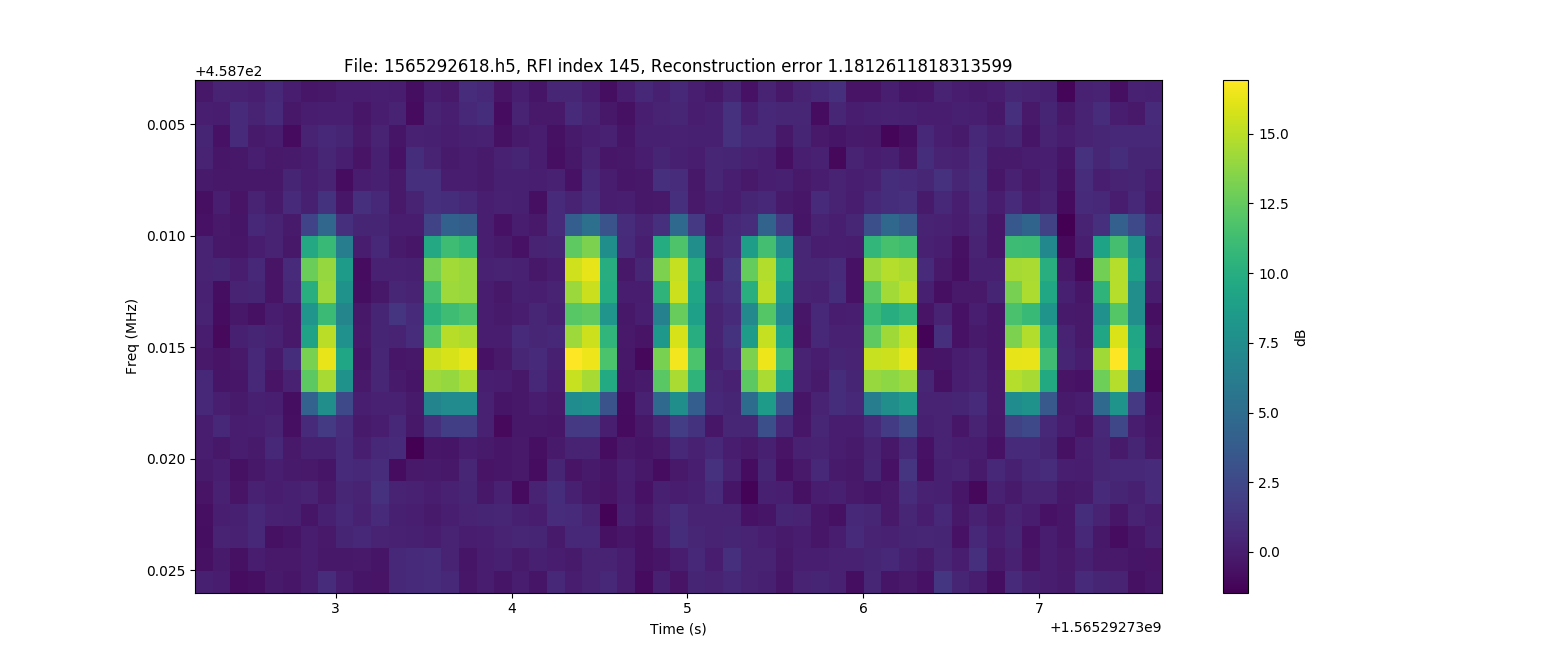
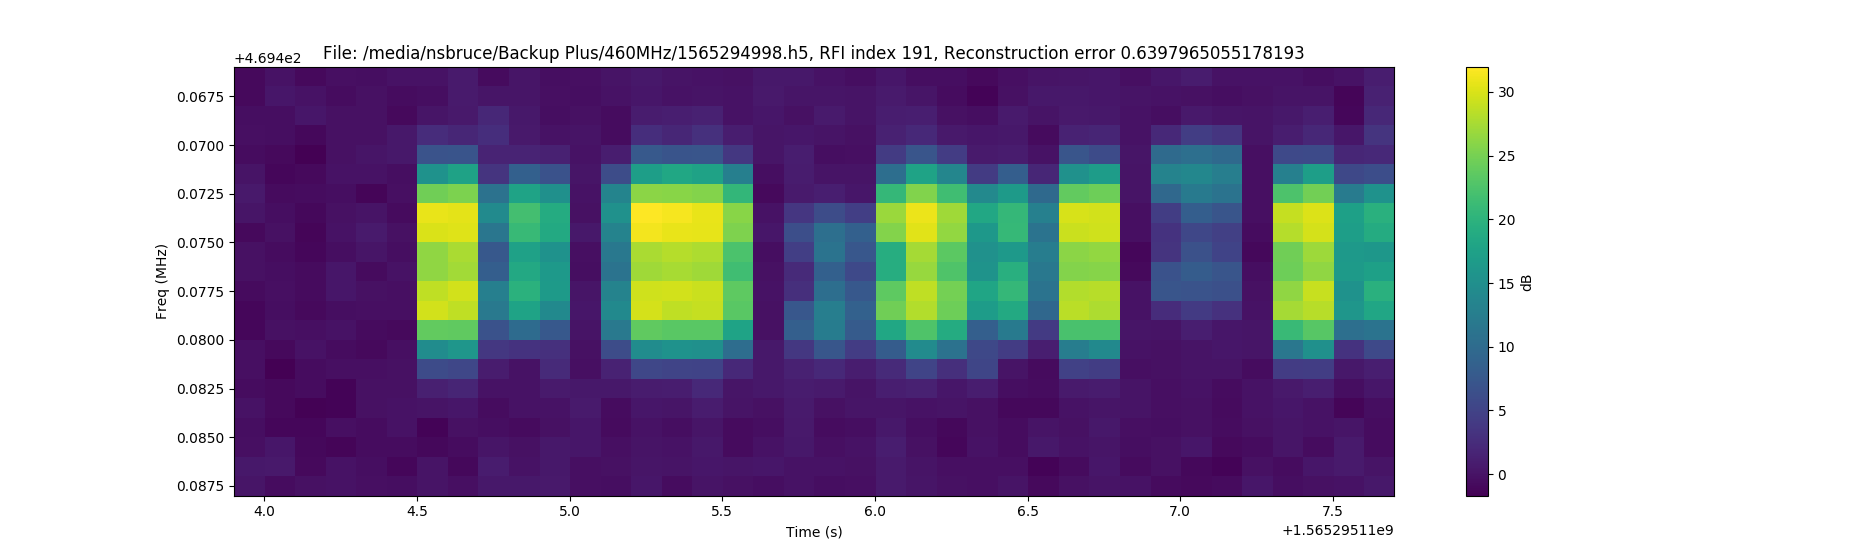
Added system to find average RME for a signal

diff --git a/code/plot_baseband_RFI.py b/code/plot_baseband_RFI.py
@@ -5,73 +5,70 @@ Takes a baseband file or full h5 file and detection index and plots the passband
 import numpy as np
 import math
 import h5py
-import argparse
 import os
 import matplotlib.pyplot as plt
 
-parser = argparse.ArgumentParser(
-    description='Plots passband waterfall from baseband reference', 
-    formatter_class=argparse.ArgumentDefaultsHelpFormatter
-    )
-parser.add_argument('--bb-file', type=str,
-                    help=".c64 baseband file to plot")
-parser.add_argument('--h5', type=str,
-                    help="h5 file containing the full experiment")
-parser.add_argument('--index', type=str,
-                    help="merged_detection index to plot")
-parser.add_argument("--error", type=float,
-                    help='reconstruction error for title only')
-args = parser.parse_args()
 
-if args.bb_file is None:
-    if args.h5 is None or args.index is None:
-        raise Exception("No BB file was specified, so you must provide both an h5 file and a detection index.")
-    else:
-        idx = args.index
-        h5File = args.h5
-else:
-    if args.h5 is not None or args.index is not None:
-        print('A BB File was specified, all other flags (--h5 and --index) are being ignored.')
-    path, bb_file = os.path.split(args.bb_file)
+def parse_bb_path(bb_file):
+    path, bb_file = os.path.split(bb_file)
     print(bb_file)
     parentName, dat, idx, c64 = bb_file.split('.')
     idx = int(idx)
     path = path.split('waveforms')[0]
     h5File = path+parentName+'.h5'
+    return idx, h5File
 
-if args.error is None:
-    title='File: {}, RFI index {}'.format(parentName+'.h5', idx)
-else:
-    title=title='File: {}, RFI index {}, Reconstruction error {}'.format(parentName+'.h5', idx, str(args.error))
-
-with h5py.File(h5File, 'r') as f:
     
-    margin = 5
+def plot_detection(bb_file=None, h5=None, index=None, error=None):
+    if bb_file is None:
+        if h5 is None or index is None:
+            raise Exception("No BB file was specified, so you must provide both an h5 file and a detection index.")
+        else:
+            idx = index
+            h5File = h5
+    else:
+        if h5 is not None or index is not None:
+            print('A BB File was specified, all other flags (--h5 and --index) are being ignored.')
+        idx, h5File = parse_bb_path(bb_file)
+    
+    if error is None:
+        title='File: {}, RFI index {}'.format(h5File, idx)
+    else:
+        title='File: {}, RFI index {}, Reconstruction error {}'.format(h5File, idx, str(error))
 
-    fig, ax = plt.subplots()
 
-    x1, y1, x2, y2 = np.round(f['merged_detections'][:,idx])
+    with h5py.File(h5File, 'r') as f:
+        
+        margin = 5
 
-    x1 = int(np.clip(x1-margin, 0, f['times'].shape[0]-1))
-    x2 = int(np.clip(x2+margin, 0, f['times'].shape[0]-1))
-    y1 = int(np.clip(y1-margin, 0, f['freqs'].shape[0]-1))
-    y2 = int(np.clip(y2+margin, 0, f['freqs'].shape[0]-1))
+        fig, ax = plt.subplots()
 
-    t1 = f['times'][x1]
-    t2 = f['times'][x2]
-    f1 = f['freqs'][y1]
-    f2 = f['freqs'][y2]
+        x1, y1, x2, y2 = np.round(f['merged_detections'][:,idx])
 
-    extents = [t1, t2, f2/1e6, f1/1e6]
-    t1 = math.floor(t1)
-    t2 = math.ceil(t2)
-    f1 = math.floor(f1)
-    f2 = math.ceil(f2)
+        x1 = int(np.clip(x1-margin, 0, f['times'].shape[0]-1))
+        x2 = int(np.clip(x2+margin, 0, f['times'].shape[0]-1))
+        y1 = int(np.clip(y1-margin, 0, f['freqs'].shape[0]-1))
+        y2 = int(np.clip(y2+margin, 0, f['freqs'].shape[0]-1))
 
-    rfi = 10.*np.log10(f['psd'][y1:y2,x1:x2])
-    im = ax.imshow(rfi, extent=extents, aspect='auto', interpolation='none')
-    ax.set_xlabel('Time (s)')
-    ax.set_ylabel('Freq (MHz)')
-    fig.colorbar(im, label='dB', ax=ax, orientation='vertical')
-    ax.set_title(title)
-    plt.show()
+        t1 = f['times'][x1]
+        t2 = f['times'][x2]
+        f1 = f['freqs'][y1]
+        f2 = f['freqs'][y2]
+
+        extents = [t1, t2, f2/1e6, f1/1e6]
+        t1 = math.floor(t1)
+        t2 = math.ceil(t2)
+        f1 = math.floor(f1)
+        f2 = math.ceil(f2)
+
+        rfi = 10.*np.log10(f['psd'][y1:y2,x1:x2])
+        im = ax.imshow(rfi, extent=extents, aspect='auto', interpolation='none')
+        ax.set_xlabel('Time (s)')
+        ax.set_ylabel('Freq (MHz)')
+        fig.colorbar(im, label='dB', ax=ax, orientation='vertical')
+        ax.set_title(title)
+        plt.show()
+
+
+
+

diff --git a/code/check_reconstruction_errors.py b/code/check_reconstruction_errors.py
@@ -6,9 +6,10 @@ import math
 import numpy as np
 import statistics
 import matplotlib.pyplot as plt
+from plot_baseband_RFI import plot_detection
 
-errors = np.load('errors.npy')
-bbfiles = np.load('bbfiles.npy')
+errors = np.load('../data/errors.npy')
+bbfiles = np.load('../data/bbfiles.npy')
 
 collectionDict = {}
 for i in range(len(bbfiles)):
@@ -22,12 +23,25 @@ for i in range(len(bbfiles)):
 
 print("Number of bb files: {}".format(len(collectionDict)))
 stddevs = []
+avgs = []
+labels = []
 
-for value in collectionDict.values():
+for key, value in collectionDict.items():
     stddevs.append(np.std(value))
+    avgs.append(np.average(value))
+    labels.append(key)
+
 
 
 
 plt.hist(stddevs, 50, density=True)
 plt.title("STDEV of reconstruction error for each bbFile")
 plt.show()
+
+plt.hist(avgs, 50, density=True)
+plt.title("AVG of reconstruction error for each bbFile")
+plt.show()
+
+i = np.argmax(np.array(avgs))
+
+plot_detection(bb_file=labels[i], error=avgs[i])

diff --git a/code/plot_baseband_RFI_CMD.py b/code/plot_baseband_RFI_CMD.py
@@ -1,0 +1,29 @@
+"""
+Script wrapper around plot_baseband_RFI.py
+"""
+
+import numpy as np
+import math
+import h5py
+import argparse
+import os
+import matplotlib.pyplot as plt
+from plot_baseband_RFI import plot_detection
+
+parser = argparse.ArgumentParser(
+    description='Plots passband waterfall from baseband reference', 
+    formatter_class=argparse.ArgumentDefaultsHelpFormatter
+    )
+parser.add_argument('--bb-file', type=str,
+                    help=".c64 baseband file to plot")
+parser.add_argument('--h5', type=str,
+                    help="h5 file containing the full experiment")
+parser.add_argument('--index', type=str,
+                    help="merged_detection index to plot")
+parser.add_argument("--error", type=float,
+                    help='reconstruction error for title only')
+args = parser.parse_args()
+
+
+    
+plot_detection(args.bb_file, args.h5, args.index, args.error)
